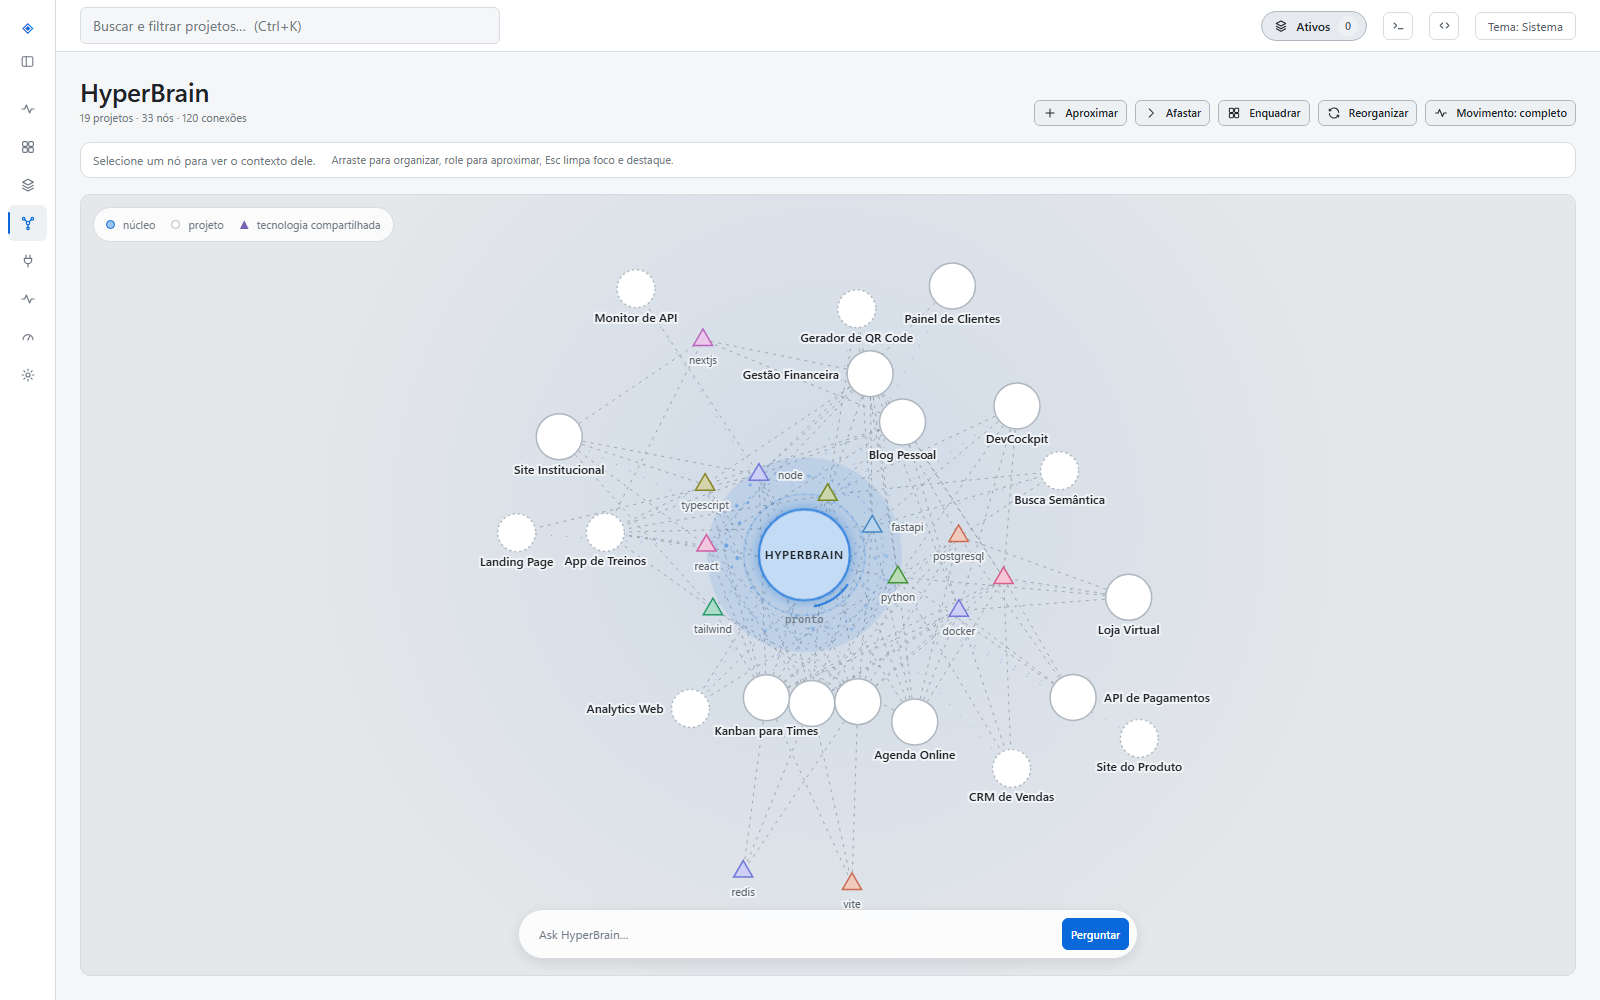
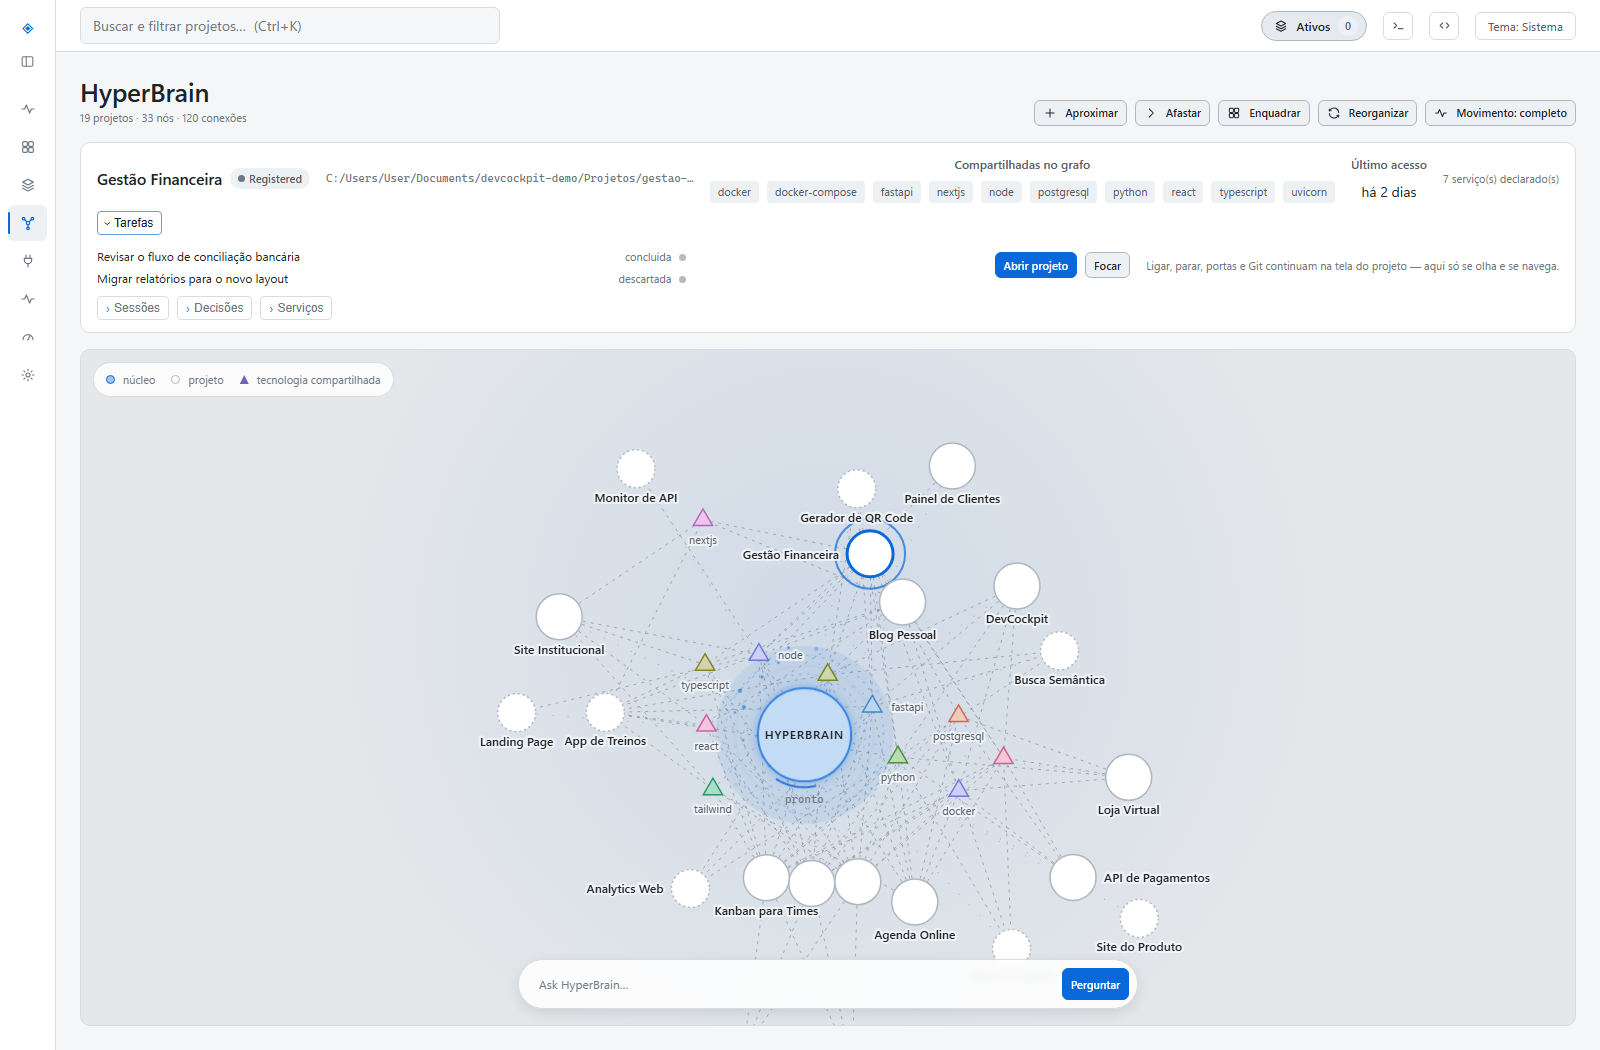
docs: README com os numeros reais e o HyperBrain mostrando o MVP 3
Badge e secao de testes diziam 969/89; medido agora: 970 no backend
(cobertura 90%) e 96 no frontend - os 7 testes do MVP 3 e o da
sondagem da Anthropic entraram depois da ultima atualizacao.

Tela do HyperBrain recapturada com a secao "Tarefas" aberta, que e o
que a entrega de hoje acrescenta, e a legenda passou a descrever isso.
Capturada contra o banco de demonstracao; dois titulos de tarefa que
eram lixo de dado real ("RE[") viraram texto plausivel no banco de
demo, para a vitrine nao mostrar ruido.

diff --git a/README.md b/README.md
@@ -10,7 +10,7 @@ Um lugar só para saber o que você tem, o que está no ar, o que tem alteraçã
 [![Python](https://img.shields.io/badge/python-3.11%2B-3776AB?logo=python&logoColor=white)](https://www.python.org/)
 [![FastAPI](https://img.shields.io/badge/FastAPI-009688?logo=fastapi&logoColor=white)](https://fastapi.tiangolo.com/)
 [![SQLite](https://img.shields.io/badge/SQLite-003B57?logo=sqlite&logoColor=white)](https://www.sqlite.org/)
-[![Testes](https://img.shields.io/badge/testes-969%20passando-3fb950)](#testes)
+[![Testes](https://img.shields.io/badge/testes-970%20passando-3fb950)](#testes)
 [![Cobertura](https://img.shields.io/badge/cobertura-90%25-3fb950)](#testes)
 [![Ruff](https://img.shields.io/badge/lint-ruff-261230?logo=ruff&logoColor=white)](https://docs.astral.sh/ruff/)
 [![Plataforma](https://img.shields.io/badge/Windows-11-0078D4?logo=windows&logoColor=white)](#plataforma)
@@ -126,7 +126,7 @@ O ciclo foi construído por spec, requisito a requisito, em [`docs/specs/ai-harn
 <tr>
 <td colspan="2">
 <img src="docs/screenshots/hyperbrain.png" alt="HyperBrain — o ecossistema como grafo">
-<sub><b>HyperBrain</b> — o ecossistema como mapa: o núcleo, os projetos e as tecnologias que ligam projeto a projeto. Foco atenua o resto, arrastar organiza, e o nó fica onde foi solto. Também em SVG à mão, sem biblioteca de grafo (<a href="docs/adr/ADR-009-graph-rendering.md">ADR-009</a>).</sub>
+<sub><b>HyperBrain</b> — o ecossistema como mapa: o núcleo, os projetos e as tecnologias que ligam projeto a projeto. Foco atenua o resto, arrastar organiza, e o nó fica onde foi solto. Selecionar um projeto abre o contexto dele — tarefas, sessões, decisões e serviços, cada um buscado só quando a seção é aberta. Também em SVG à mão, sem biblioteca de grafo (<a href="docs/adr/ADR-009-graph-rendering.md">ADR-009</a>).</sub>
 </td>
 </tr>
 </table>
@@ -225,7 +225,7 @@ Cada escolha tem ADR em [`docs/adr/`](docs/adr/).
 .venv\Scripts\python.exe -m ruff check app tests
 ```
 
-**969 testes**, cobertura **90%**, mais 89 no frontend. A suíte de frontend roda no runner do próprio Node (`node --test`), sem `node_modules`, e é chamada de dentro do `pytest` — comando único. Testes que exigem Docker estão marcados e não rodam por padrão.
+**970 testes**, cobertura **90%**, mais 96 no frontend. A suíte de frontend roda no runner do próprio Node (`node --test`), sem `node_modules`, e é chamada de dentro do `pytest` — comando único. Testes que exigem Docker estão marcados e não rodam por padrão.
 
 Há testes que existem para proteger decisões, não código: um varre o fonte e reprova se `subprocess` for importado fora de `app/runner/`; outro garante que nenhum verbo destrutivo do Docker é alcançável por qualquer caminho da API.
 
